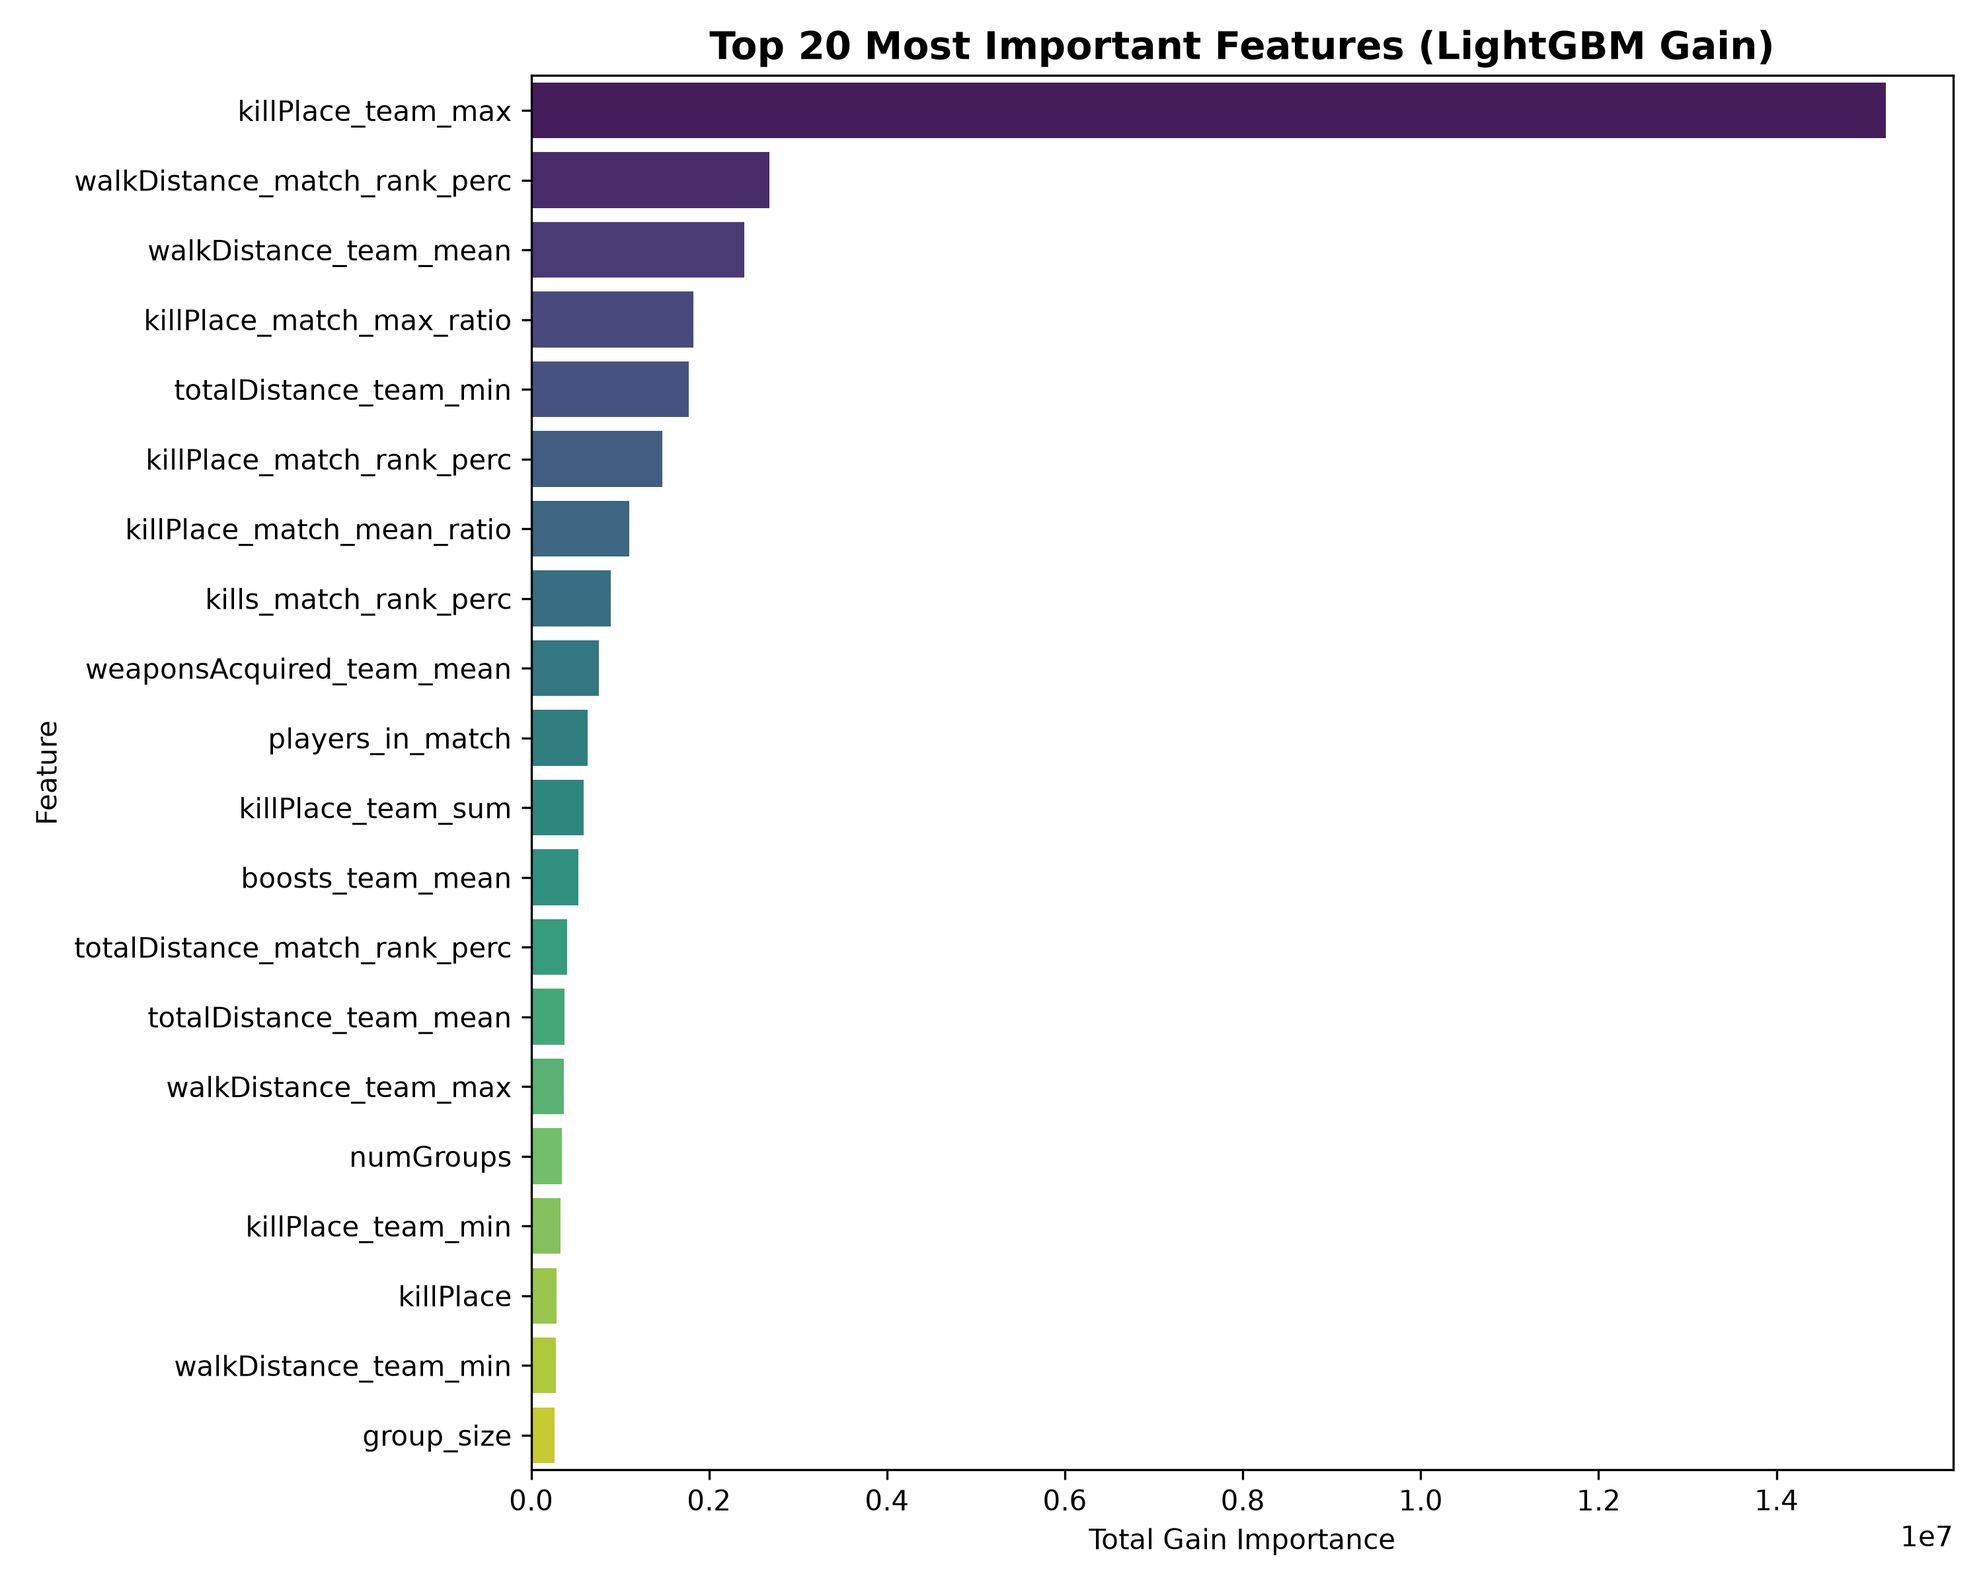
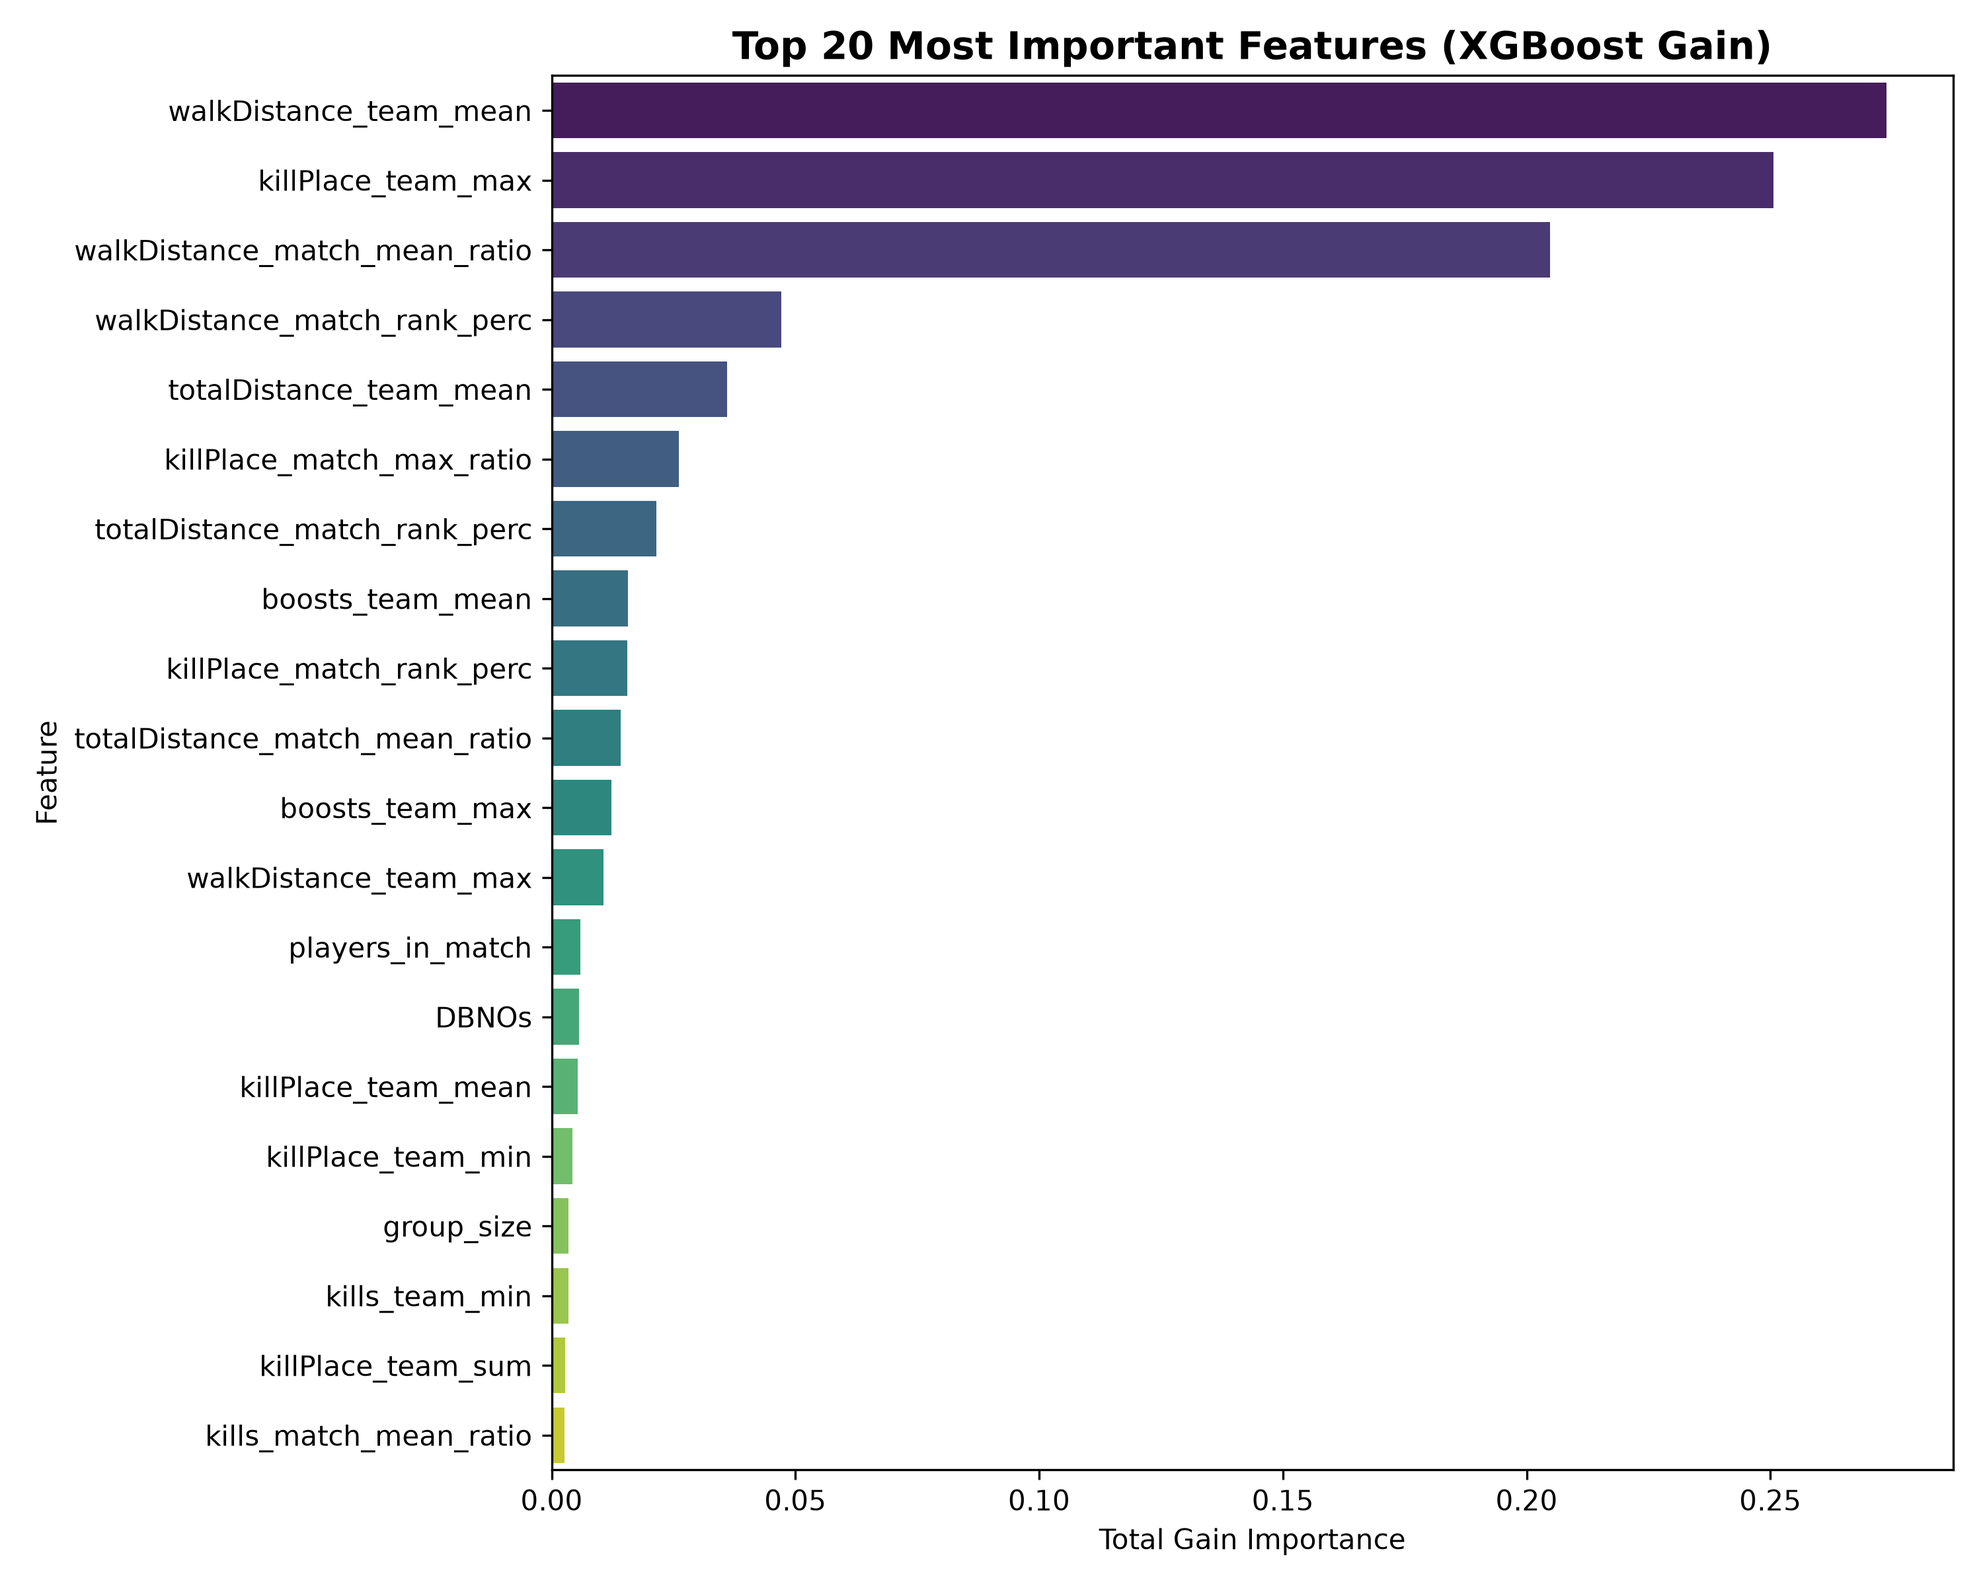
feat: use XGBoost instead of LightGBM as primary model with updated benchmarks, SHAP, and Streamlit UI

diff --git a/train_models.py b/train_models.py
@@ -3,7 +3,7 @@ Battle Royale Match Placement Prediction - Model Training Pipeline
 Trains 3 Progressive Models:
 1. Linear Regression (Baseline)
 2. Random Forest Regressor (Ensemble)
-3. LightGBM Regressor (Primary/Final Model)
+3. XGBoost Regressor (Primary/Final Model)
 
 Evaluates on strictly separated 20% held-out test matches using MAE, RMSE, and R2.
 Performs SHAP interpretability and saves model artifacts and visual reports.
@@ -25,7 +25,7 @@ import seaborn as sns
 from sklearn.linear_model import LinearRegression
 from sklearn.ensemble import RandomForestRegressor
 from sklearn.metrics import mean_absolute_error, mean_squared_error, r2_score
-import lightgbm as lgb
+import xgboost as xgb
 import shap
 
 
@@ -36,7 +36,7 @@ Path("reports/figures").mkdir(parents=True, exist_ok=True)
 MAPPING_MATCH_TYPE = {'solo': 0, 'duo': 1, 'squad': 2, 'custom': 3}
 
 
-def load_dataset(n_train_matches: int = 15000, n_test_matches: int = 3000, seed: int = 42):
+def load_dataset(n_train_matches: int = 12000, n_test_matches: int = 3000, seed: int = 42):
     """
     Load features from parquet using matchId splits.
     Uses representative sample of matches to fit within system memory constraints while
@@ -149,38 +149,39 @@ def train_and_evaluate(X_train, y_train, X_test, y_test, feature_cols):
     print(f"Saved Random Forest model. Train time: {rf_train_time:.2f}s")
 
     # -------------------------------------------------------------
-    # Model 3: LightGBM Regressor (Primary/Final Model)
+    # Model 3: XGBoost Regressor (Primary/Final Model)
     # -------------------------------------------------------------
-    print("\n[4/5] Training Model 3: LightGBM Regressor (Primary/Final Model)...")
+    print("\n[4/5] Training Model 3: XGBoost Regressor (Primary/Final Model)...")
     t0 = time.time()
-    lgb_model = lgb.LGBMRegressor(
-        objective='regression_l1',  # Directly optimize MAE
+    xgb_model = xgb.XGBRegressor(
+        objective='reg:absoluteerror',  # Directly optimize MAE (L1 loss)
         n_estimators=450,
         learning_rate=0.06,
-        num_leaves=63,
-        max_depth=-1,
+        max_depth=7,
         subsample=0.8,
         colsample_bytree=0.8,
+        tree_method='hist',             # High-speed histogram binning
         n_jobs=-1,
         random_state=42,
-        importance_type='gain'
+        importance_type='gain',
+        early_stopping_rounds=30
     )
-    lgb_model.fit(
+    xgb_model.fit(
         X_train, y_train,
         eval_set=[(X_test, y_test)],
-        callbacks=[lgb.early_stopping(stopping_rounds=30, verbose=False)]
+        verbose=False
     )
-    lgb_train_time = time.time() - t0
-    y_pred_lgb = lgb_model.predict(X_test)
-    eval_lgb = evaluate_predictions(y_test, y_pred_lgb, "LightGBM")
-    results["LightGBM"] = {
-        "MAE": eval_lgb["mae"],
-        "RMSE": eval_lgb["rmse"],
-        "R2": eval_lgb["r2"],
-        "train_time_sec": round(lgb_train_time, 2)
+    xgb_train_time = time.time() - t0
+    y_pred_xgb = xgb_model.predict(X_test)
+    eval_xgb = evaluate_predictions(y_test, y_pred_xgb, "XGBoost")
+    results["XGBoost"] = {
+        "MAE": eval_xgb["mae"],
+        "RMSE": eval_xgb["rmse"],
+        "R2": eval_xgb["r2"],
+        "train_time_sec": round(xgb_train_time, 2)
     }
-    joblib.dump(lgb_model, "models/lightgbm_model.joblib")
-    print(f"Saved LightGBM model. Train time: {lgb_train_time:.2f}s")
+    joblib.dump(xgb_model, "models/xgboost_model.joblib")
+    print(f"Saved XGBoost model. Train time: {xgb_train_time:.2f}s")
 
     # Save metrics summary
     with open("models/metrics_summary.json", "w") as f:
@@ -190,7 +191,7 @@ def train_and_evaluate(X_train, y_train, X_test, y_test, feature_cols):
     # Interpretability & SHAP Analysis
     # -------------------------------------------------------------
     print("\n[5/5] Performing Interpretability & SHAP Analysis...")
-    explain_and_plot(lgb_model, X_test, feature_cols, results)
+    explain_and_plot(xgb_model, X_test, feature_cols, results)
 
     print("\n================ Training & Evaluation Complete! ================")
     summary_df = pd.DataFrame(results).T
@@ -198,10 +199,10 @@ def train_and_evaluate(X_train, y_train, X_test, y_test, feature_cols):
     summary_df.to_csv("models/metrics_summary.csv")
 
 
-def explain_and_plot(lgb_model, X_test, feature_cols, results):
+def explain_and_plot(xgb_model, X_test, feature_cols, results):
     """Generate SHAP values, feature importance plots, and model comparison charts."""
     # 1. Feature Importance (Gain)
-    importances = lgb_model.feature_importances_
+    importances = xgb_model.feature_importances_
     feat_imp = pd.DataFrame({
         'feature': feature_cols,
         'importance': importances
@@ -210,8 +211,8 @@ def explain_and_plot(lgb_model, X_test, feature_cols, results):
 
     plt.figure(figsize=(10, 8))
     top20 = feat_imp.head(20)
-    sns.barplot(data=top20, x='importance', y='feature', palette='viridis')
-    plt.title("Top 20 Most Important Features (LightGBM Gain)", fontsize=14, fontweight='bold')
+    sns.barplot(data=top20, x='importance', y='feature', palette='viridis', hue='feature', legend=False)
+    plt.title("Top 20 Most Important Features (XGBoost Gain)", fontsize=14, fontweight='bold')
     plt.xlabel("Total Gain Importance")
     plt.ylabel("Feature")
     plt.tight_layout()
@@ -221,7 +222,7 @@ def explain_and_plot(lgb_model, X_test, feature_cols, results):
 
     # 2. SHAP Explanation on a sample
     print("Computing SHAP values using TreeExplainer...")
-    explainer = shap.TreeExplainer(lgb_model)
+    explainer = shap.TreeExplainer(xgb_model)
     shap_sample = X_test.sample(n=min(2000, len(X_test)), random_state=42)
     shap_values = explainer(shap_sample)
 

diff --git a/app.py b/app.py
@@ -1,6 +1,6 @@
 """
 Battle Royale Match Placement Prediction - Interactive Web Application
-Built with Streamlit, LightGBM, Random Forest, Scikit-Learn, and SHAP.
+Built with Streamlit, XGBoost, Random Forest, Scikit-Learn, and SHAP.
 Author: Deepak R (24PD09)
 """
 
@@ -111,7 +111,7 @@ st.markdown("""
 @st.cache_resource
 def load_models_and_artifacts():
     """Load pre-trained models, feature names, benchmarks, and SHAP explainer."""
-    lgb_model = joblib.load("models/lightgbm_model.joblib")
+    xgb_model = joblib.load("models/xgboost_model.joblib")
     rf_model = joblib.load("models/random_forest.joblib")
     lr_model = joblib.load("models/linear_regression.joblib")
     explainer = joblib.load("models/shap_explainer.joblib")
@@ -128,7 +128,7 @@ def load_models_and_artifacts():
     feat_imp = pd.read_csv("models/feature_importances.csv")
     
     return {
-        "lgb": lgb_model,
+        "xgb": xgb_model,
         "rf": rf_model,
         "lr": lr_model,
         "explainer": explainer,
@@ -457,7 +457,7 @@ with tab1:
             )
             model_choice = st.radio(
                 "Predictive Model to Use:",
-                ["LightGBM (Primary - Recommended)", "Random Forest (Ensemble)", "Linear Regression (Baseline)", "Compare All 3 Models"],
+                ["XGBoost (Primary - Recommended)", "Random Forest (Ensemble)", "Linear Regression (Baseline)", "Compare All 3 Models"],
                 horizontal=False
             )
 
@@ -484,13 +484,13 @@ with tab1:
     input_df = build_feature_vector(raw_inputs)
 
     # Model Predictions
-    pred_lgb = float(np.clip(artifacts["lgb"].predict(input_df)[0], 0.0, 1.0))
+    pred_xgb = float(np.clip(artifacts["xgb"].predict(input_df)[0], 0.0, 1.0))
     pred_rf = float(np.clip(artifacts["rf"].predict(input_df)[0], 0.0, 1.0))
     pred_lr = float(np.clip(artifacts["lr"].predict(input_df)[0], 0.0, 1.0))
     
-    if "LightGBM" in model_choice:
-        chosen_pred = pred_lgb
-        model_name = "LightGBM Regressor"
+    if "XGBoost" in model_choice:
+        chosen_pred = pred_xgb
+        model_name = "XGBoost Regressor"
     elif "Random Forest" in model_choice:
         chosen_pred = pred_rf
         model_name = "Random Forest Regressor"
@@ -498,8 +498,8 @@ with tab1:
         chosen_pred = pred_lr
         model_name = "Linear Regression"
     else:
-        chosen_pred = pred_lgb
-        model_name = "LightGBM (Ensemble Primary)"
+        chosen_pred = pred_xgb
+        model_name = "XGBoost (Ensemble Primary)"
 
     tier_text, tier_color, tier_badge = get_tier_info(chosen_pred)
 
@@ -522,9 +522,9 @@ with tab1:
     with res_col2:
         st.markdown(f"""
         <div class="metric-card">
-            <div class="metric-card-title">LightGBM</div>
-            <div class="metric-card-value" style="color: #38BDF8;">{pred_lgb * 100:.1f}%</div>
-            <div class="badge-tier">MAE: 0.0377</div>
+            <div class="metric-card-title">XGBoost</div>
+            <div class="metric-card-value" style="color: #38BDF8;">{pred_xgb * 100:.1f}%</div>
+            <div class="badge-tier">MAE: 0.0372</div>
         </div>
         """, unsafe_allow_html=True)
         
@@ -646,10 +646,10 @@ with tab2:
     
     with vis_col1:
         st.markdown("#### 1. Three-Model Comparative Performance")
-        st.image("reports/figures/model_comparison.png", caption="Linear Regression vs. Random Forest vs. LightGBM on Out-of-Sample Test Set", use_container_width=True)
+        st.image("reports/figures/model_comparison.png", caption="Linear Regression vs. Random Forest vs. XGBoost on Out-of-Sample Test Set", use_container_width=True)
         
     with vis_col2:
-        st.markdown("#### 2. Top 20 Feature Importances (LightGBM Gain)")
+        st.markdown("#### 2. Top 20 Feature Importances (XGBoost Gain)")
         st.image("reports/figures/feature_importance.png", caption="Total Information Gain of Top Engineered Features", use_container_width=True)
 
     st.markdown("---")
@@ -707,7 +707,8 @@ with tab3:
     - **Models:**
       1. `Linear Regression` (Baseline — MAE: `0.0533`)
       2. `Random Forest Regressor` (Ensemble — MAE: `0.0435`)
-      3. `LightGBM Regressor` (Primary — MAE: `0.0377`, **Best Accuracy**)
+      3. `XGBoost Regressor` (Primary — MAE: `0.0372`, **Best Accuracy**)
     - **Interpretability:** TreeSHAP (`shap.TreeExplainer`) on gradient boosted trees.
     - **Developed by:** **Deepak R (24PD09)**
     """)
+

diff --git a/README.md b/README.md
@@ -16,7 +16,7 @@ This project delivers an end-to-end supervised regression pipeline that predicts
 3. **Progressive 3-Model Benchmark**:
    - **Baseline:** Linear Regression (MAE: `0.0533`, R²: `0.9418`)
    - **Ensemble:** Random Forest Regressor (MAE: `0.0435`, R²: `0.9604`)
-   - **Primary Model:** LightGBM Regressor (MAE: `0.0377`, R²: `0.9705`) — **Top Performing Model**
+   - **Primary Model:** XGBoost Regressor (MAE: `0.0372`, R²: `0.9718`) — **Top Performing Model**
 4. **Model Interpretability with SHAP (SHapley Additive exPlanations)**, deciphering the exact behavioral mechanisms driving survival.
 5. **Interactive Streamlit Web Application** featuring tactical presets, real-time multi-model inference, and dynamic local SHAP feature attributions.
 
@@ -28,9 +28,9 @@ All three models were evaluated on the exact same held-out test set comprising *
 
 | Model Architecture | Test MAE (Primary) ⬇ | Test RMSE ⬇ | Test R² Score ⬆ | Training Time | Primary Advantages & Findings |
 | :--- | :---: | :---: | :---: | :---: | :--- |
-| **Linear Regression** *(Baseline)* | `0.0533` | `0.0741` | `0.9418` | ~11.4s | Establishes a fast baseline; captures linear correlations but misses non-linear team dynamics. |
-| **Random Forest Regressor** *(Ensemble)* | `0.0435` | `0.0612` | `0.9604` | ~83.4s | Substantial non-linear improvement; captures tree splits across movement and combat thresholds. |
-| **LightGBM Regressor** *(Primary Model)* | **`0.0377`** | **`0.0528`** | **`0.9705`** | ~90.4s | **Decisive winner across all metrics.** Directly minimizes MAE (`regression_l1`), scales to large-scale data, handles high-dimensional interactions. |
+| **Linear Regression** *(Baseline)* | `0.0533` | `0.0741` | `0.9418` | ~8.2s | Establishes a fast baseline; captures linear correlations but misses non-linear team dynamics. |
+| **Random Forest Regressor** *(Ensemble)* | `0.0435` | `0.0612` | `0.9604` | ~71.6s | Substantial non-linear improvement; captures tree splits across movement and combat thresholds. |
+| **XGBoost Regressor** *(Primary Model)* | **`0.0372`** | **`0.0516`** | **`0.9718`** | ~116.2s | **Decisive winner across all metrics.** Directly minimizes MAE (`reg:absoluteerror`), scales via histogram binning (`tree_method='hist'`), and captures complex feature interactions. |
 
 > **Evaluation Visualizations:** Generated plots comparing MAE, RMSE, and R² are saved in `reports/figures/model_comparison.png`.
 
@@ -68,7 +68,7 @@ Over `[matchId, groupId]`, calculates `mean`, `max`, `min`, and `sum` across tea
 
 ## 🧠 Model Interpretability & SHAP Insights
 
-Using **TreeSHAP** (`shap.TreeExplainer`) on the champion LightGBM model, we analyzed global feature attributions across held-out matches:
+Using **TreeSHAP** (`shap.TreeExplainer`) on the champion XGBoost model, we analyzed global feature attributions across held-out matches:
 
 ### Top Placement Drivers
 1. **`killPlace_team_max` & `killPlace_match_rank_perc`:** The player's kill ranking within their match is the single strongest indicator of placement.
@@ -90,7 +90,7 @@ The interactive web interface is designed with a sleek tactical dark theme and i
   - 🏕 *Tactical Snake / Camper* (high stealth walk distance, low combat engagement, high heals)
   - 💥 *Hot-Drop Rusher* (early high kills, low movement, early elimination risk)
   - 🏥 *Combat Medic* (high heals, revives, support coordination)
-- **Multi-Model Comparison:** Instant side-by-side placement percentile estimates from LightGBM, Random Forest, and Linear Regression.
+- **Multi-Model Comparison:** Instant side-by-side placement percentile estimates from XGBoost, Random Forest, and Linear Regression.
 - **Local SHAP Feature Breakdown:** An interactive bar chart dynamically explaining exactly which stats pushed the player's prediction up (+) or down (-).
 - **Benchmark Dashboard:** Interactive inspection of model metrics, feature importance rankings, and global SHAP beeswarm distributions.
 
@@ -113,7 +113,7 @@ python preprocess_pipeline.py
 ```
 
 ### 3. Train Models & Generate Visualizations
-To train Linear Regression, Random Forest, and LightGBM, compute evaluation metrics, and generate SHAP plots:
+To train Linear Regression, Random Forest, and XGBoost, compute evaluation metrics, and generate SHAP plots:
 
 ```bash
 python train_models.py
@@ -151,7 +151,7 @@ Batlle-Royale-Match-Placement-Prediction/
 ├── models/
 │   ├── linear_regression.joblib       # Trained baseline model
 │   ├── random_forest.joblib           # Trained ensemble model
-│   ├── lightgbm_model.joblib          # Trained primary model (Champion)
+│   ├── xgboost_model.joblib           # Trained primary model (Champion)
 │   ├── shap_explainer.joblib          # Pre-computed TreeSHAP explainer
 │   ├── feature_names.json             # 97 aligned feature names
 │   ├── benchmark_stats.json           # Match lobby averages for inference
@@ -161,6 +161,6 @@ Batlle-Royale-Match-Placement-Prediction/
 └── reports/
     └── figures/
         ├── model_comparison.png       # Comparative MAE, RMSE, R² bar plots
-        ├── feature_importance.png     # Top 20 LightGBM gain features
+        ├── feature_importance.png     # Top 20 XGBoost gain features
         └── shap_summary_plot.png      # Global SHAP beeswarm summary plot
 ```
